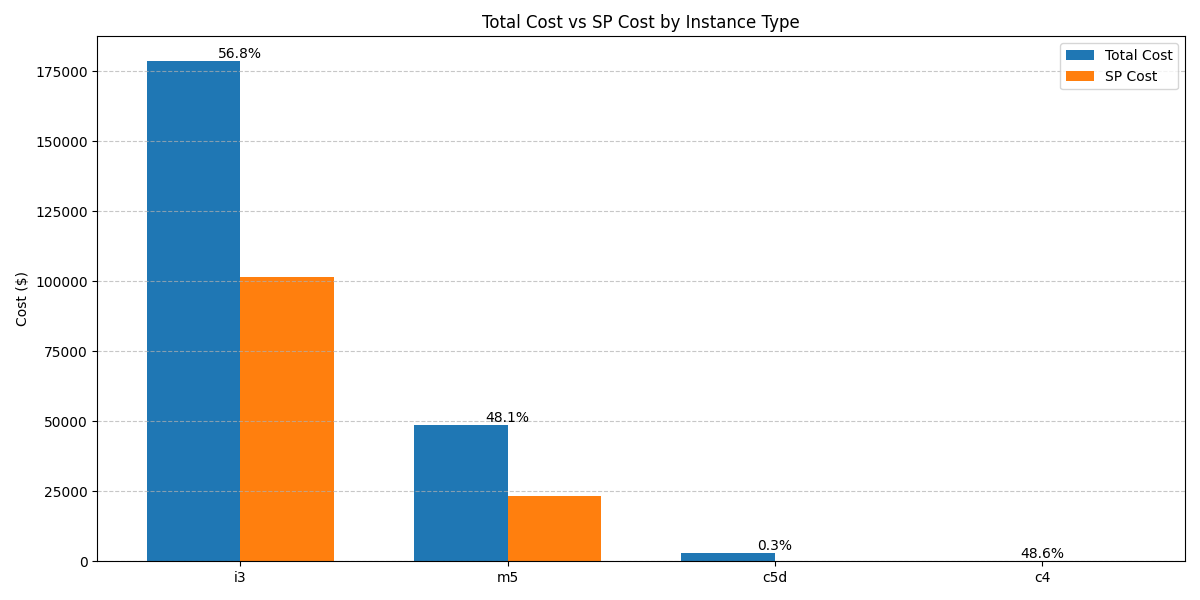
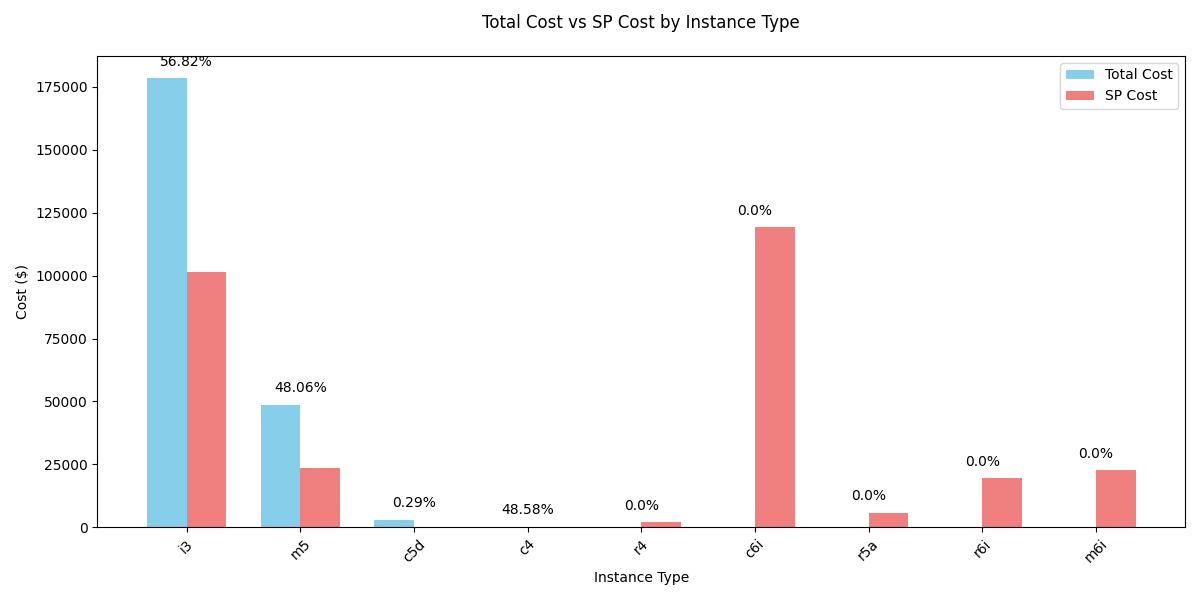
[#15]feat: show generated chart in the app

diff --git a/application/app.py b/application/app.py
@@ -3,7 +3,12 @@ import boto3
 import json
 import copy
 import re
+import base64
+import io
+import os
+import traceback
 from typing import TypedDict
+from IPython.display import Image, display
 from botocore.config import Config
 from sqlalchemy import create_engine, inspect, text
 from sqlalchemy.orm import sessionmaker
@@ -21,7 +26,7 @@ engine = create_engine(ATHENA_CONNECTION_STRING, echo=True)
 db = SQLDatabase(engine)
 Session = sessionmaker(bind=engine)
 
-llm_model = SONNET # TODO: -> NOVA_PRO
+llm_model = SONNET
 csv_list_response_format = "Your response should be a list of comma separated values, eg: `foo, bar, baz` or `foo,bar,baz`"
 json_response_format = """'The output should be formatted as a JSON instance that conforms to the JSON schema below.\n\nAs an example, for the schema {"properties": {"foo": {"title": "Foo", "description": "a list of strings", "type": "array", "items": {"type": "string"}}}, "required": ["foo"]}\nthe object {"foo": ["bar", "baz"]} is a well-formatted instance of the schema. The object {"properties": {"foo": ["bar", "baz"]}} is not well-formatted.\n\nHere is the output schema:\n```\n{"properties": {"setup": {"title": "Setup", "description": "question to set up a joke", "type": "string"}, "punchline": {"title": "Punchline", "description": "answer to resolve the joke", "type": "string"}}, "required": ["setup", "punchline"]}\n```'"""
 
@@ -642,6 +647,8 @@ def generate_code_for_chart(state: GraphState) -> GraphState:
     dataset_description = state["answer"]
     query_state = copy.deepcopy(state["query_state"])
     dataset = query_state["result"]
+    chart_error = query_state.get("chart_error", "None")
+
     sys_prompt_template =  '''
                 당신은 데이터 분석과 시각화 전문가입니다.
                 주어진 structured dataset, dataset의 컬럼 정보, 그리고 사용자의 분석 요청사항을 바탕으로 적절한 차트를 생성하는 Python 코드를 작성하는 것이 당신의 임무입니다.
@@ -696,19 +703,64 @@ def generate_code_for_chart(state: GraphState) -> GraphState:
                 #질문: {question}
                 #결과: {dataset}
                 #결과 설명: {dataset_description}
+                #에러 로그: {error_log}
                 Variable `df: pd.DataFrame` is already declared."""
-    #에러 로그: {error_log}
 
-    sys_prompt, usr_prompt = create_prompt(sys_prompt_template, usr_prompt_template, question=question, dataset=dataset, dataset_description=dataset_description)
+    sys_prompt, usr_prompt = create_prompt(sys_prompt_template, usr_prompt_template, 
+                                           question=question, 
+                                           dataset=dataset, 
+                                           dataset_description=dataset_description, 
+                                           error_log="None" if chart_error == "None" else chart_error
+                                           )
     chart_code = converse_with_bedrock(sys_prompt, usr_prompt)
-    print(usr_prompt)
-    print(chart_code)
-    query_state["chart_code"] = chart_code 
+    query_state["chart_code"] = chart_code
 
-    return GraphState(query_state=state)
+    return GraphState(query_state=query_state)
 
 def generate_chart(state: GraphState) -> GraphState:
-    return GraphState(query_state=state)
+    query_state = copy.deepcopy(state["query_state"])
+    chart_code = query_state["chart_code"]
+    print(chart_code)
+
+    # 절대 경로 사용
+    current_dir = os.getcwd()
+    output_dir = os.path.join(current_dir, "output")
+    img_path = os.path.join(output_dir, "chart.png")
+    os.makedirs(output_dir, exist_ok=True) # output 디렉토리가 없으면 생성
+    print(f"Chart will be saved to: {img_path}")
+    
+    try:
+        exec(chart_code)
+        
+        # 파일이 존재하는지 확인
+        if os.path.exists(img_path):
+            # query_state에 성공 정보 추가
+            query_state["status"] = "success"
+            # query_state["chart_img"] = image_stream
+            query_state["chart_img_path"] = img_path  # 경로 저장
+            return GraphState(query_state=query_state)
+            # with open(img_path, "rb") as image_file:
+                # img_bytes = image_file.read()
+                # img_base64 = base64.b64encode(img_bytes).decode('utf-8')
+                # base64_string = base64.b64decode(img_base64)
+            # image_stream = io.BytesIO(img_bytes)
+            # with st.expander("📊 차트를 생성하고 있습니다...", expanded=False):
+            #     st.image(image_stream)
+        else:
+            pass 
+    
+    except Exception as e:
+        error_type = type(e).__name__
+        error_message = str(e)
+        error_traceback = traceback.format_exc()
+
+        error = f"Error Type: {error_type}\nError Message: {error_message}\n\nTraceback:\n{error_traceback}"
+        print(f"error: {error}")
+        
+        # query_state에 오류 정보 추가
+        query_state["status"] = "error"
+        query_state["chart_error"] = error
+        return GraphState(query_state=query_state)
 
 def generate_followup_questions(state: GraphState) -> GraphState:
     # sys_prompt_template = """당신은 AWS 비용 분석 전문가입니다. 사용자가 CUR 데이터로 더 다양한 비용 인사이트를 얻을 수 있도록, 현재 질문과 비슷한 CUR 관련 질문 3가지를 추천해주세요.
@@ -736,6 +788,7 @@ def build_langgraph_workflow(chart_option=True):
     workflow.add_node("analyze_intent", analyze_intent)
     workflow.add_node("get_general_answer", get_general_answer)
     workflow.add_node("get_database_answer", get_database_answer)
+    workflow.add_node("generate_followup_questions", generate_followup_questions)
     workflow.set_entry_point("analyze_intent")
 
     # SubGraph1 Nodes - Schema Linking
@@ -748,7 +801,6 @@ def build_langgraph_workflow(chart_option=True):
     workflow.add_node("generate_query", generate_query)
     workflow.add_node("validate_query", validate_query)
     workflow.add_node("execute_query", execute_query)
-    workflow.add_node("generate_followup_questions", generate_followup_questions)
     workflow.add_node("handle_failure", handle_failure)
     workflow.add_node("get_relevant_columns", get_relevant_columns)
 
@@ -824,7 +876,15 @@ def build_langgraph_workflow(chart_option=True):
             }
         )
         workflow.add_edge("generate_code_for_chart", "generate_chart")
-        workflow.add_edge("generate_chart", "generate_followup_questions")
+        workflow.add_conditional_edges(
+            "generate_chart",
+            next_step_by_query_state,
+            {
+                "success": "generate_followup_questions",
+                "error": "generate_code_for_chart",
+            },
+        )
+
     else:
         workflow.add_edge("get_database_answer", "generate_followup_questions")
     
@@ -842,7 +902,6 @@ def print_graph_results(app, query: str):
     config = RunnableConfig(recursion_limit=100, configurable={"thread_id": "TODO"})
     inputs = GraphState(question=query)
 
-    # 어시스턴트 응답
     with st.chat_message("assistant"):
         progress_container = st.container() # 진행 상황 컨테이너
         response_container = st.container() # 최종 응답 컨테이너
@@ -867,7 +926,9 @@ def print_graph_results(app, query: str):
                                 st.info("✅ 오류를 분석하고 있습니다...")
                             elif key == "execute_query":
                                 st.info("🚀 분석 결과를 확인하고 있습니다...")
-                            elif key == "generate_answer":
+                            elif key == "generate_code_for_chart":
+                                st.info("📊 분석 결과를 시각화하고 있습니다...")
+                            elif key == "generate_chart":
                                 st.info("📝 응답을 생성하고 있습니다...")
                             elif key == "generate_followup_questions":
                                 if isinstance(value, dict) and 'sample_questions' in value:
@@ -975,16 +1036,32 @@ def print_graph_results_with_details(app, query: str):
                                                 st.markdown(f"**{k}:**")
                                                 st.code(str(v), wrap_lines=True)
                                     node_results[key] = ("📝", "Final Response", answer_value)
+                                elif key == "generate_code_for_chart":
+                                    chart_code = value.get('query_state', {}).get('chart_code', '') if isinstance(value, dict) else str(value)
+                                    with st.expander("📊 결과를 시각화하고 있습니다...", expanded=False):
+                                        st.code(str(chart_code), language="python", wrap_lines=True)
+                                    node_results[key] = ("📊", "Chart Generation Code", chart_code)
+                                elif key == "generate_chart":
+                                    chart_img_path = value.get('query_state', {}).get('chart_img_path', '') if isinstance(value, dict) else str(value)
+                                    with st.expander("✍ 차트를 생성합니다..."):
+                                        st.image(chart_img_path)
+                                    node_results[key] = ("✍", "Generated Chart", chart_img_path)
                                 elif key == "generate_followup_questions":
                                     if isinstance(value, dict) and 'sample_questions' in value:
                                         st.session_state.followup_questions = value['sample_questions']
             
                     with response_container:
-                        if isinstance(value, dict) and 'answer' in value:
+                        if isinstance(value, dict) and 'chart_img_path' in value:
+                            st.image(value['chart_img_path'])
+                            # st.session_state.messages.append(
+                            #     {"role": "assistant", "content": value['answer']}
+                            # )
+                        if isinstance(value, dict) and 'answer' in value: #if isinstance(value, dict) and 'sample_questions' in value:
                             st.markdown(value['answer'])
                             st.session_state.messages.append(
                                 {"role": "assistant", "content": value['answer']}
                             )
+
             # # 최종 결과 표시
             # with progress_container:
             #     st.markdown("### 🔍 Execution Details")
